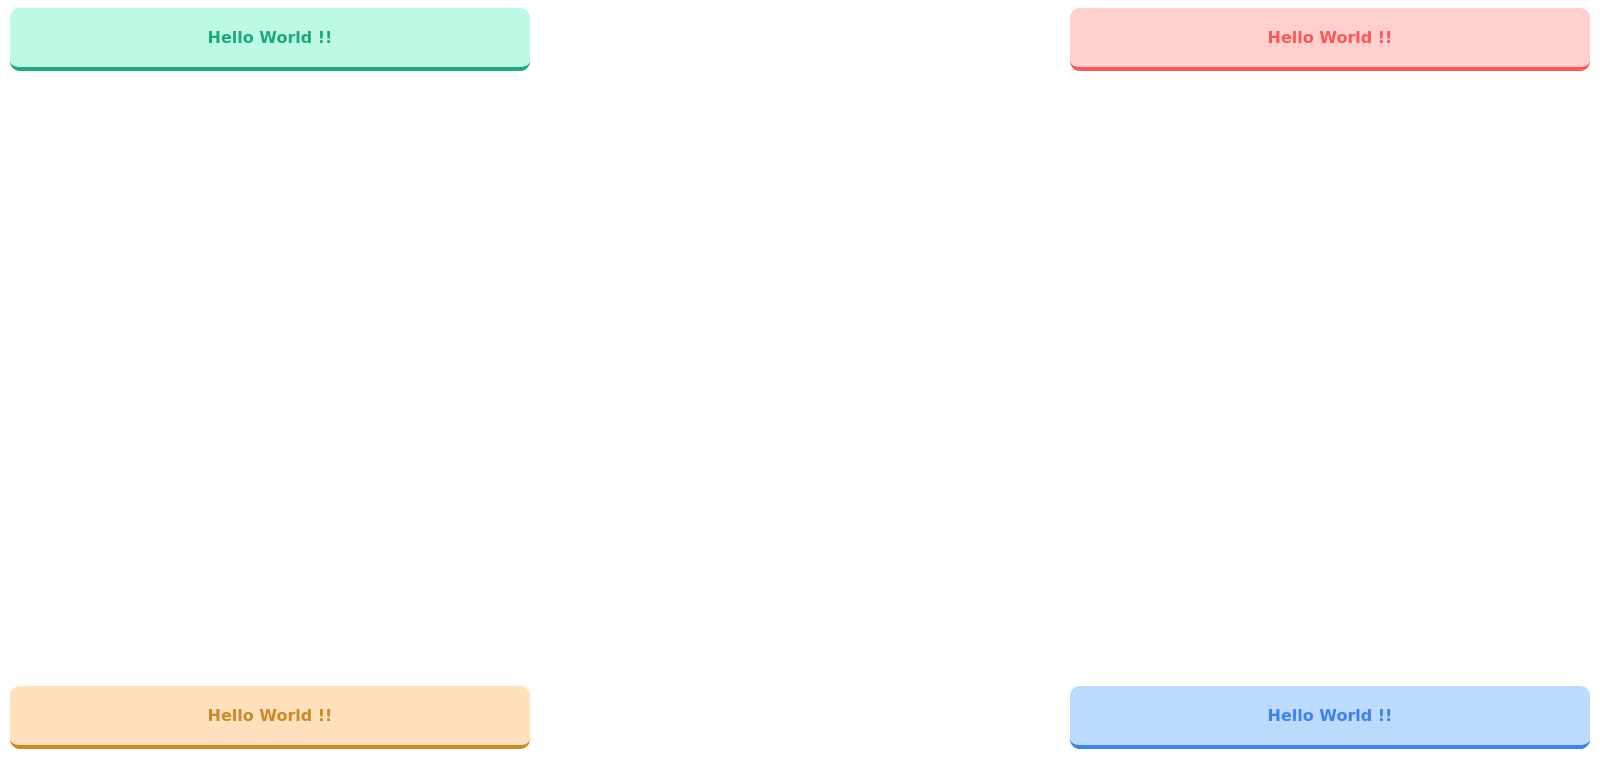
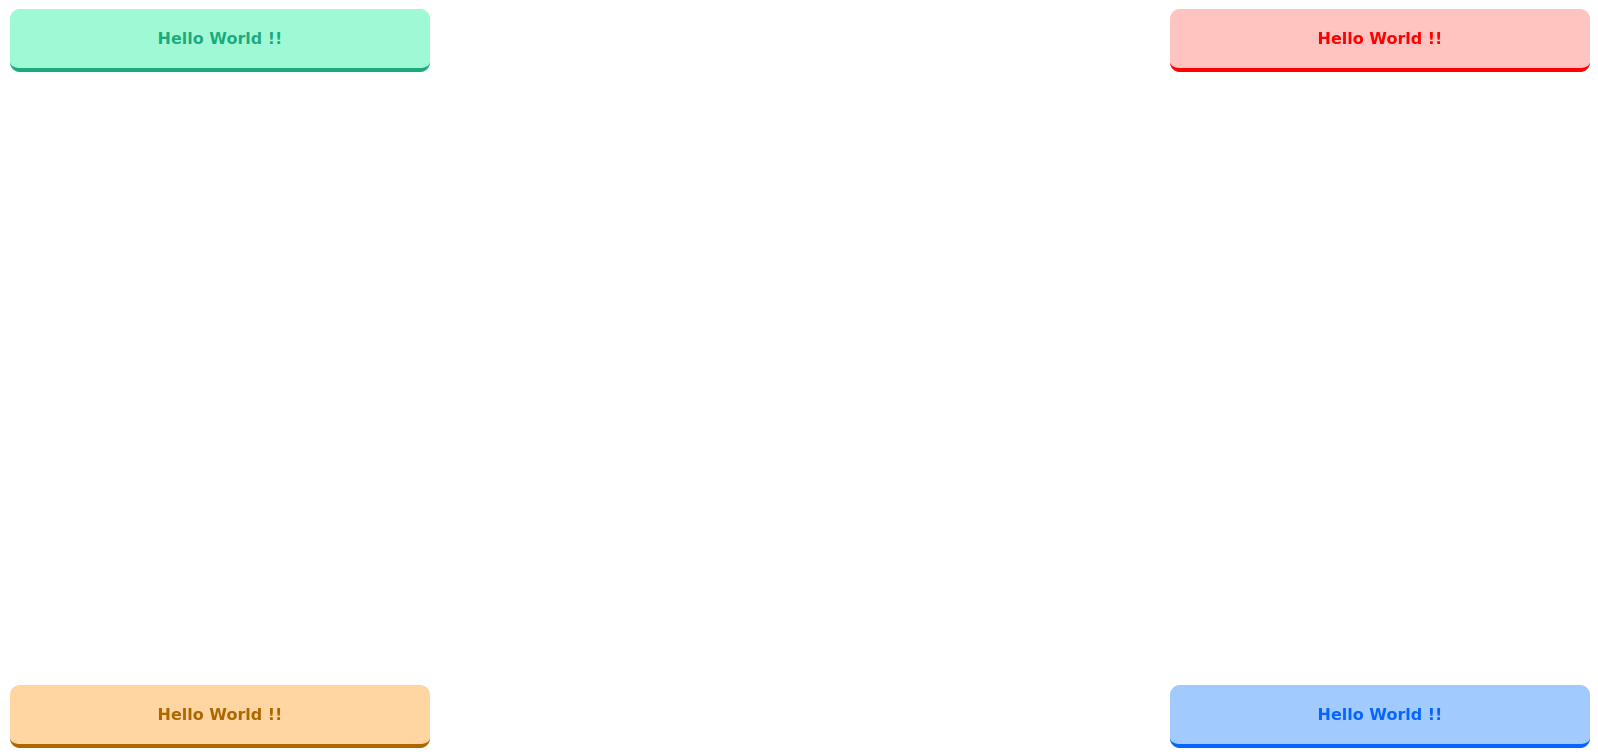
update

diff --git a/alert.js b/alert.js
@@ -1,74 +1,64 @@
 class Alert {
     constructor(options) {
-    	// default style
+        // default style
         this.alertStyle = {
-            width: '500px',
-            textAlign: 'center',
-            padding: '20px 10px',
-            position: 'fixed',
-            borderRadius: '10px',
-            direction: 'ltr',
-            cursor: 'pointer',
-            fontWeight: 'bold',
-            borderBottom: 'solid 4px'
+            width: "400px",
+            textAlign: "center",
+            padding: "20px 10px",
+            position: "fixed",
+            borderRadius: "10px",
+            direction: "ltr",
+            cursor: "pointer",
+            fontWeight: "bold",
+            borderBottom: "solid 4px",
+            zIndex: "9",
         };
 
         // default option
         this.alertOptions = {
             limit: 5,
-            location: 'tc',
+            location: "tc",
             clickUrl: null,
             clickFun: null,
-            severity: 'success',
-            theme: 'lite',
+            severity: "success",
             after: null,
         };
 
         // severity level and color
         this.severity = {
-            lite: {
-                success: {
-                    background: 'rgba(159, 249, 213, 0.7)',
-                    color: '#1ea97c'
-                },
-                info: {
-                    background: 'rgba(161, 202, 255, 0.7)',
-                    color: '#3b82f6'
-                },
-                warn: {
-                    background: 'rgba(255, 213, 161, 0.7)',
-                    color: '#cc8925'
-                },
-                error: {
-                    background: 'rgba(255, 188, 185, 0.7)',
-                    color: '#ff5757'
-                }
+            success: {
+                background: "rgb(159, 249, 213)",
+                color: "#1ea97c",
             },
-            dark: {
-                success: {
-                    background: 'rgba(110, 251, 195, 0.7)',
-                    color: 'rgb(21, 113, 83)'
-                },
-                info: {
-                    background: 'rgb(59, 130, 246)',
-                    color: 'rgb(5, 34, 72)'
-                },
-                warn: {
-                    background: 'rgba(255, 161, 44, 0.7)',
-                    color: 'rgb(60, 39, 7)'
-                },
-                error: {
-                    background: 'rgba(255, 96, 89, 0.7)',
-                    color: 'rgb(132, 28, 28)'
-                }
+            info: {
+                background: "rgb(161, 202, 255)",
+                color: "rgb(6, 101, 255)",
+            },
+            warn: {
+                background: "rgb(255, 213, 161)",
+                color: "rgb(172, 103, 1)",
+            },
+            error: {
+                background: "rgb(255, 195, 192)",
+                color: "rgb(255, 0, 0)",
+            },
+        };
+
+        // Check the following values
+        // COV => Check Option Value
+        this.COV = (option, defaultVal) => {
+            if (option !== undefined) {
+                return option;
+            } else {
+                return defaultVal;
             }
         };
 
         this.afterAlert = null;
-        
+
         // create alertItem in html document
-        this.alertItem = document.createElement('div');
-        this.alertItem.setAttribute('class', 'alert-message');
+        this.alertItem = document.createElement("div");
+        this.alertItem.setAttribute("class", "alert-message");
 
         // put text in alert
         let text = options.text;
@@ -76,58 +66,90 @@ class Alert {
 
         // style
         if (options.style !== undefined) {
-            this.alertStyle.background = COV(options.style.background, this.alertStyle.background);
-            this.alertStyle.color = COV(options.style.color, this.alertStyle.color);
-            this.alertStyle.width = COV(options.style.width, this.alertStyle.width);
-            this.alertStyle.textAlign = COV(options.style.textAlign, this.alertStyle.textAlign);
-            this.alertStyle.padding = COV(options.style.padding, this.alertStyle.padding);
-            this.alertStyle.borderRadius = COV(options.style.borderRadius, this.alertStyle.borderRadius);
+            this.alertStyle.background = this.COV(
+                options.style.background,
+                this.alertStyle.background,
+            );
+            this.alertStyle.color = this.COV(
+                options.style.color,
+                this.alertStyle.color,
+            );
+            this.alertStyle.width = this.COV(
+                options.style.width,
+                this.alertStyle.width,
+            );
+            this.alertStyle.textAlign = this.COV(
+                options.style.textAlign,
+                this.alertStyle.textAlign,
+            );
+            this.alertStyle.padding = this.COV(
+                options.style.padding,
+                this.alertStyle.padding,
+            );
+            this.alertStyle.borderRadius = this.COV(
+                options.style.borderRadius,
+                this.alertStyle.borderRadius,
+            );
         }
-        this.alertOptions.theme = COV(options.theme, this.alertOptions.theme);
-        this.alertOptions.severity = COV(options.severity, this.alertOptions.severity);
-        this.alertItem.style.background = this.severity[this.alertOptions.theme][this.alertOptions.severity].background;
-        this.alertItem.style.color = this.severity[this.alertOptions.theme][this.alertOptions.severity].color;
+
+        this.alertOptions.severity = this.COV(
+            options.severity,
+            this.alertOptions.severity,
+        );
+        this.alertItem.style.background =
+            this.severity[this.alertOptions.severity].background;
+        this.alertItem.style.color =
+            this.severity[this.alertOptions.severity].color;
         // execution style
         Object.assign(this.alertItem.style, this.alertStyle);
         // end style
-        
+
         // location alert
-        this.alertOptions.location = COV(options.location, this.alertOptions.location);
-        if (this.alertOptions.location === 'tl') {
-            this.alertItem.style.left = '10px';
-        } else if (this.alertOptions.location === 'tr') {
-            this.alertItem.style.right = '10px';
-        } else if (this.alertOptions.location === 'tc') {
-            this.alertItem.style.left = '0';
-            this.alertItem.style.right = '0';
-            this.alertItem.style.margin = '0 auto';
-        } else if (this.alertOptions.location === 'bl') {
-            this.alertItem.style.left = '10px';
-            this.alertItem.style.bottom = '10px';
-        } else if (this.alertOptions.location === 'br') {
-            this.alertItem.style.right = '10px';
-            this.alertItem.style.bottom = '10px';
-        } else if (this.alertOptions.location === 'bc') {
-            this.alertItem.style.left = '0';
-            this.alertItem.style.right = '0';
-            this.alertItem.style.margin = '0 auto';
-            this.alertItem.style.bottom = '10px';
+        this.alertOptions.location = this.COV(
+            options.location,
+            this.alertOptions.location,
+        );
+        if (this.alertOptions.location === "tl") {
+            this.alertItem.style.top = "10px";
+            this.alertItem.style.left = "10px";
+        } else if (this.alertOptions.location === "tr") {
+            this.alertItem.style.top = "10px";
+            this.alertItem.style.right = "10px";
+        } else if (this.alertOptions.location === "tc") {
+            this.alertItem.style.top = "10px";
+            this.alertItem.style.left = "0";
+            this.alertItem.style.right = "0";
+            this.alertItem.style.margin = "0 auto";
+        } else if (this.alertOptions.location === "bl") {
+            this.alertItem.style.left = "10px";
+            this.alertItem.style.bottom = "10px";
+        } else if (this.alertOptions.location === "br") {
+            this.alertItem.style.right = "10px";
+            this.alertItem.style.bottom = "10px";
+        } else if (this.alertOptions.location === "bc") {
+            this.alertItem.style.left = "0";
+            this.alertItem.style.right = "0";
+            this.alertItem.style.margin = "0 auto";
+            this.alertItem.style.bottom = "10px";
         }
         // end location alert
 
         // limit alert
-        this.alertOptions.limit = COV(options.limit, this.alertOptions.limit);
+        this.alertOptions.limit = this.COV(
+            options.limit,
+            this.alertOptions.limit,
+        );
         this.alertOptions.limit = this.alertOptions.limit * 1000;
         let timeOut = setTimeout(() => {
             this.alertItem.remove();
             this.afterAlert();
         }, this.alertOptions.limit);
         // remove set time out if hover alert
-        this.alertItem.addEventListener('mouseenter', () => {
+        this.alertItem.addEventListener("mouseenter", () => {
             clearTimeout(timeOut);
         });
         // add set time out after leave alert
-        this.alertItem.addEventListener('mouseleave', () => {
+        this.alertItem.addEventListener("mouseleave", () => {
             timeOut = setTimeout(() => {
                 this.alertItem.remove();
                 this.afterAlert();
@@ -136,41 +158,41 @@ class Alert {
         // end limit alert
 
         // go to url if click hover
-        this.alertOptions.clickUrl = COV(options.clickUrl, this.alertOptions.clickUrl);
+        this.alertOptions.clickUrl = this.COV(
+            options.clickUrl,
+            this.alertOptions.clickUrl,
+        );
         if (this.alertOptions.clickUrl !== null) {
-            this.alertItem.addEventListener('click', () => {
-                window.open(this.alertOptions.clickUrl, '_blank');
+            this.alertItem.addEventListener("click", () => {
+                window.open(this.alertOptions.clickUrl, "_blank");
             });
         }
 
         // execution function if click hover
-        this.alertOptions.clickFun = COV(options.clickFun, this.alertOptions.clickFun);
+        this.alertOptions.clickFun = this.COV(
+            options.clickFun,
+            this.alertOptions.clickFun,
+        );
         if (this.alertOptions.clickFun !== null) {
-            this.alertItem.addEventListener('click', () => {
+            this.alertItem.addEventListener("click", () => {
                 this.alertOptions.clickFun();
             });
         }
-        
+
         // after alert
-	    this.afterAlert = () => {
-	        this.alertOptions.after = COV(options.after, this.alertOptions.after);
-		    if (this.alertOptions.after !== null) {
-		        this.alertOptions.after();
-		    }
-	    } 
+        this.afterAlert = () => {
+            this.alertOptions.after = this.COV(
+                options.after,
+                this.alertOptions.after,
+            );
+            if (this.alertOptions.after !== null) {
+                this.alertOptions.after();
+            }
+        };
 
         // add alert div in html document
-        var parentElement = document.querySelector('body');
+        var parentElement = document.querySelector("body");
         parentElement.appendChild(this.alertItem);
     }
 } // end class Alert
 
-// Check the following values 
-// COV => Check Option Value
-function COV(option, defaultVal) {
-    if (option !== undefined) {
-        return option;
-    } else {
-        return defaultVal;
-    }
-}
